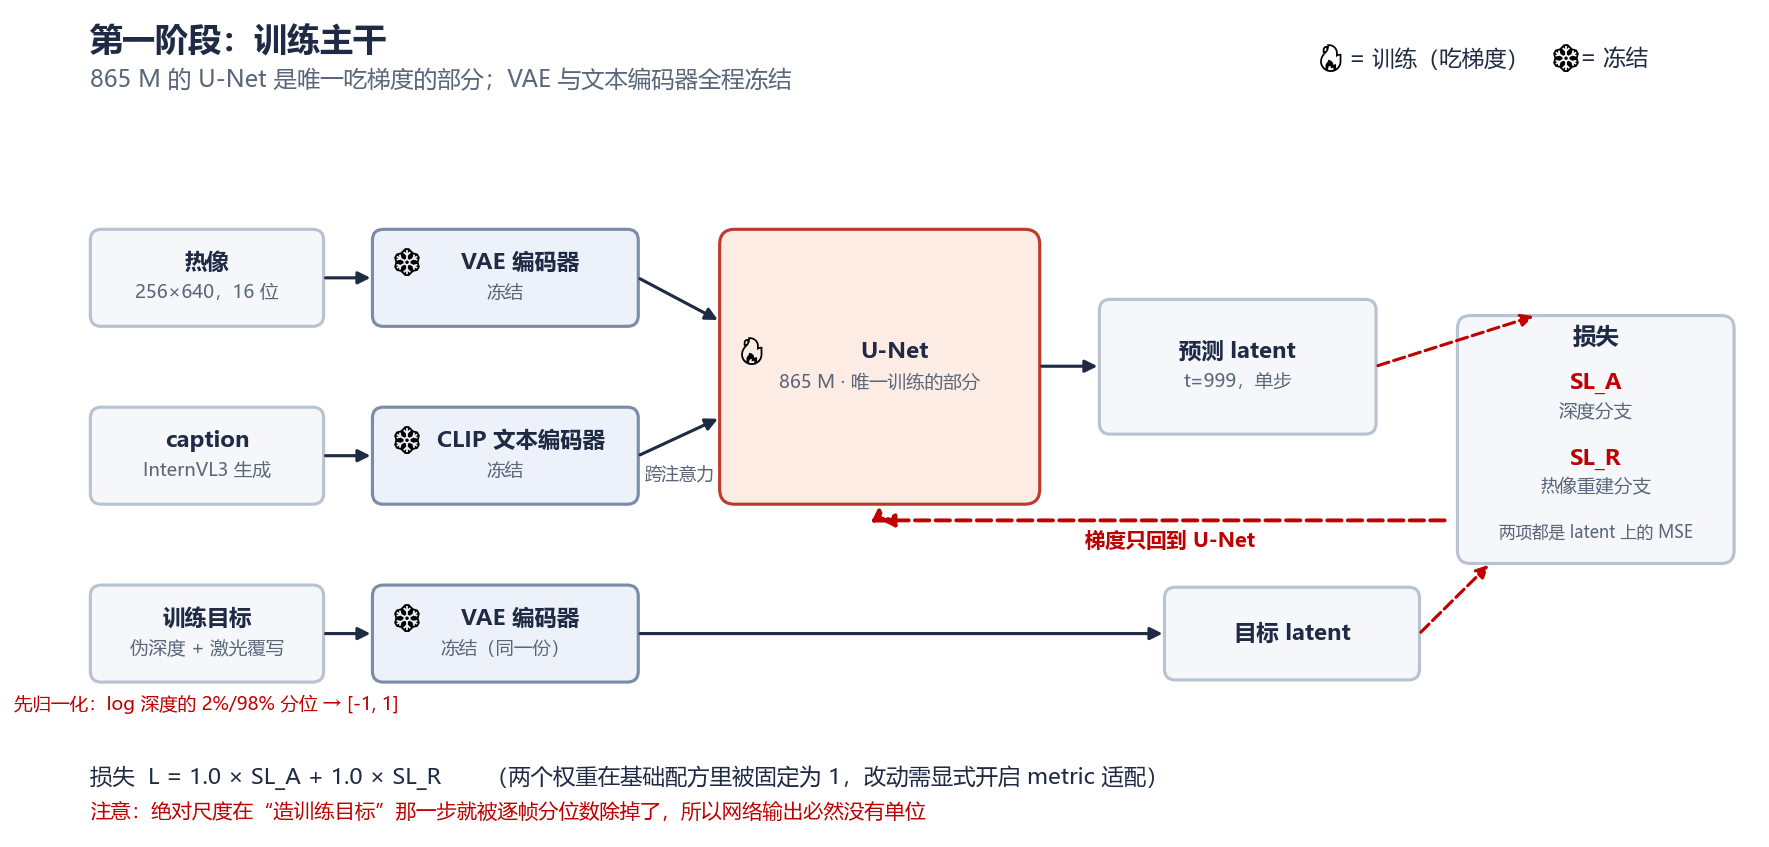
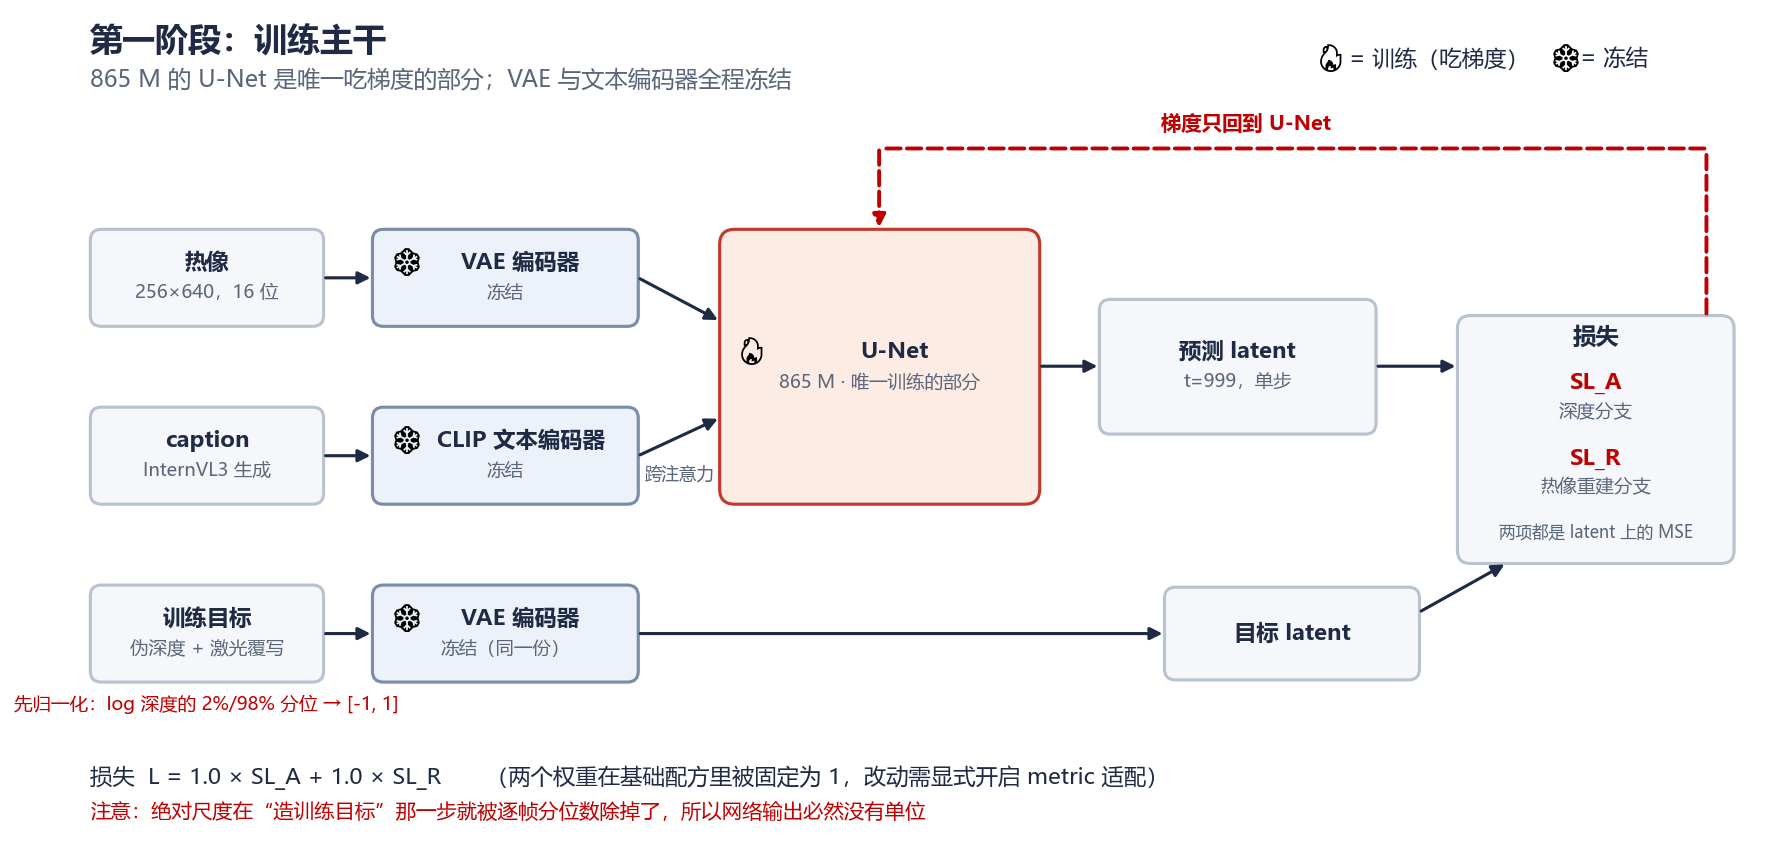
Stop drawing forward tensors in the colour reserved for gradients
Two arrows into the loss were red and dashed, which in this figure means
gradient -- so the picture showed the loss flowing backwards into itself.
They are forward: two tensors arriving where they get compared.

The gradient return ran along the bottom and had to turn up into the U-Net
across a 0.15 gap, so its arrowhead landed under the block with no visible
riser and read as an arrow pointing at nothing. Routed over the top, where
the vertical has room to be seen.

New inference figure, and it says what the output actually is: a VAE decode
in [-1, 1], rescaled to [0, 1]. Under this line that range holds normalised
log depth. It held disparity before the target changed, which is what the
`disparity` variable name still refers to.

The metric-head page comes out of the deck; nothing reported depends on it.
Its figure stays, and putting the page back is one name in build().

diff --git a/tools/build_report_20260921.py b/tools/build_report_20260921.py
@@ -35,7 +35,7 @@ METRICS = ["AbsRel ↓", "RMSE (m) ↓", "δ1 ↑"]
 NUMCOLS = [PP_ALIGN.LEFT] + [PP_ALIGN.CENTER] * 3
 
 
-def new(prs):
+def new_slide(prs):
     return prs.slides.add_slide(prs.slide_layouts[6])
 
 
@@ -72,7 +72,7 @@ def check_paired_rows_differ(rows: list[list[str]]) -> None:
 
 # ── 1. 封面 ────────────────────────────────────────────────────────────────
 def cover(prs):
-    slide = new(prs)
+    slide = new_slide(prs)
     bar = slide.shapes.add_shape(1, Inches(0), Inches(0), Inches(W), Inches(2.55))
     bar.fill.solid(); bar.fill.fore_color.rgb = INK
     bar.line.fill.background(); bar.shadow.inherit = False
@@ -91,7 +91,7 @@ def cover(prs):
 
 # ── 2. 换 log 目标 ─────────────────────────────────────────────────────────
 def objective(prs):
-    slide = new(prs)
+    slide = new_slide(prs)
     header(slide, "训练目标", "把目标从视差空间换到 log 深度空间")
     rows = [
         ["场景 / 训练目标"] + METRICS,
@@ -117,7 +117,7 @@ def objective(prs):
 
 # ── 3. 双种子 ──────────────────────────────────────────────────────────────
 def seeds(prs):
-    slide = new(prs)
+    slide = new_slide(prs)
     header(slide, "复现", "换一个随机种子重训，结论不变")
     rows = [
         ["场景 / 种子"] + METRICS,
@@ -154,7 +154,7 @@ def seeds(prs):
 
 # ── 4. caption 分两层 ──────────────────────────────────────────────────────
 def caption_levels(prs):
-    slide = new(prs)
+    slide = new_slide(prs)
     header(slide, "caption", "同一份权重，只换推理时给的文本")
     rows = [
         ["推理时喂进去的文本"] + METRICS,
@@ -178,7 +178,7 @@ def caption_levels(prs):
 
 # ── 5. 架构：出来的是什么 ──────────────────────────────────────────────────
 def chain(prs):
-    slide = new(prs)
+    slide = new_slide(prs)
     header(slide, "架构", "网络直接出的没有单位，米是后面加上去的")
     # The slide variant: one frame across, not three down. The document figure
     # at full body width stands 6.6 inches tall on a 7.5 inch slide.
@@ -225,7 +225,7 @@ def code(slide, left, top, width, height, lines, *, size=10):
 
 
 def arch_backbone(prs):
-    slide = new(prs)
+    slide = new_slide(prs)
     header(slide, "架构", "只有 U-Net 在训练，其余全部冻结")
     picture = FIGURES / "arch_backbone.png"
     if picture.is_file():
@@ -240,7 +240,7 @@ def arch_backbone(prs):
 
 
 def arch_loss(prs):
-    slide = new(prs)
+    slide = new_slide(prs)
     header(slide, "损失", "两项 latent MSE，权重都是 1")
     write(textbox(slide, MARGIN, 1.52, BODY_W, 0.42), [
         "L = 1.0 × SL_A（深度分支） + 1.0 × SL_R（热像重建分支）",
@@ -266,29 +266,25 @@ def arch_loss(prs):
     conclusion(slide, "损失没变，变的是送进损失的那个目标处在哪个空间")
 
 
-def arch_metric(prs):
-    slide = new(prs)
-    header(slide, "架构（第二阶段）", "把没有单位的输出学成米：仍在实验")
-    picture = FIGURES / "arch_metric_head.png"
+def arch_inference(prs):
+    slide = new_slide(prs)
+    header(slide, "推理", "网络出的是 [-1, 1]，米是评估器逐帧贴上去的")
+    picture = FIGURES / "arch_inference.png"
     if picture.is_file():
-        art_h = 3.98
-        art_w = art_h * 1720 / 653
+        art_h = 4.62
+        art_w = art_h * 1720 / 911
         slide.shapes.add_picture(str(picture),
                                  Inches(MARGIN + (BODY_W - art_w) / 2),
-                                 Inches(1.50), height=Inches(art_h))
-    write(textbox(slide, MARGIN, 5.66, BODY_W, 1.0), [
-        "第一阶段整个冻结，只训一个 0.39 M 的小头，为每个像素出一对 A、B，"
-        "再按 D = exp(A⊙y + B) 换算成米。监督只用真实激光那约 26% 的像素。",
-        ("前面几页报的数字都不依赖这个头 —— 那些是逐帧拟合两个参数得到的（第 5 页）。"
-         "这一条线还没有可以并排比较的结果。",
-         {"colour": GREY, "size": 12}),
-    ], size=13, space_after=7)
-    conclusion(slide, "这一步是让模型自己给出米，而不是每帧现拟合")
+                                 Inches(1.46), height=Inches(art_h))
+    write(textbox(slide, MARGIN, 6.20, BODY_W, 0.40), [
+        "推理时整个网络都冻结，一次前向，没有去噪循环。虚线以下不属于模型。",
+    ], size=12.5, space_after=4)
+    conclusion(slide, "模型不产出米；那两个数每一帧重新解")
 
 
 # ── 6. 训练目标为什么是稠密的 ──────────────────────────────────────────────
 def target(prs):
-    slide = new(prs)
+    slide = new_slide(prs)
     header(slide, "训练目标", "官方 GT 覆盖约四分之一，训练用的那张是补出来的")
     picture = FIGURES / "slide_gt_density.png"
     if picture.is_file():
@@ -307,7 +303,7 @@ def build(path: Path) -> None:
     prs = Presentation()
     prs.slide_width, prs.slide_height = Inches(W), Inches(H)
     for page in (cover, objective, seeds, caption_levels, chain, target,
-                 arch_backbone, arch_loss, arch_metric):
+                 arch_backbone, arch_loss, arch_inference):
         page(prs)
     path.parent.mkdir(parents=True, exist_ok=True)
     prs.save(path)

diff --git a/docs/figures/build_architecture.py b/docs/figures/build_architecture.py
@@ -146,14 +146,21 @@ def backbone():
     ax.text(cx, ly + 0.24, "两项都是 latent 上的 MSE", ha="center", fontsize=8.5,
             color=MUTED)
 
-    arrow(ax, 12.10, 4.33, lx + 0.72, ly + lh, dashed=True, colour=RED)
-    arrow(ax, 12.50, 1.85, lx + 0.30, ly, dashed=True, colour=RED)
+    # Both of these are forward: two tensors arriving at the place they are
+    # compared. Drawn red-dashed they read as gradient, which is the one thing
+    # they are not.
+    arrow(ax, 12.10, 4.33, lx, 4.33)
+    arrow(ax, 12.50, 2.05, lx + 0.45, ly)
 
-    # Gradient path: back along the bottom, up into the U-Net, and nowhere else.
-    arrow(ax, lx - 0.10, 2.90, 7.52, 2.90, colour=RED, dashed=True, width=2.0)
-    ax.text(10.2, 2.66, "梯度只回到 U-Net", ha="center", fontsize=10.5,
+    # Gradient path, routed over the top. Along the bottom it had to turn up
+    # into the U-Net across a 0.15 gap, so the arrowhead landed under the block
+    # with no visible riser and read as an arrow pointing at nothing.
+    grad = dict(colour=RED, dashed=True, width=2.0)
+    arrow(ax, cx + 1.02, ly + lh, cx + 1.02, 6.35, style="-", **grad)
+    arrow(ax, cx + 1.02, 6.35, 7.52, 6.35, style="-", **grad)
+    arrow(ax, 7.52, 6.35, 7.52, 5.60, **grad)
+    ax.text(10.9, 6.52, "梯度只回到 U-Net", ha="center", fontsize=10.5,
             color=RED, weight="bold")
-    arrow(ax, 7.52, 2.90, 7.52, 3.05, colour=RED, dashed=True, width=2.0)
 
     ax.text(0.25, 0.46,
             "损失  L = 1.0 × SL_A + 1.0 × SL_R"
@@ -215,6 +222,88 @@ def metric_head():
     print("写入 arch_metric_head.png")
 
 
+def inference():
+    """One forward pass, and where the metres are bolted on afterwards.
+
+    The recurring question is what the network actually emits. It emits a VAE
+    decode in [-1, 1], rescaled to [0, 1] -- and under this line that range
+    holds normalised *log depth*, not the disparity the old baseline trained
+    on. The variable is still called `disparity` in the code, which is a name
+    left over from the target this report is about replacing.
+
+    The band below the rule is not part of the model. It is what the evaluator
+    does, per frame, and drawing it inside the network would claim the model
+    produces metres.
+    """
+    fig, ax = plt.subplots(figsize=(15.6, 8.2), dpi=140)
+    ax.set_xlim(0, 15.6); ax.set_ylim(0, 8.2); ax.axis("off")
+
+    ax.text(0.25, 7.85, "推理", fontsize=17, weight="bold", color=INK)
+    ax.text(0.25, 7.52,
+            "一次前向，t=999，没有去噪循环；此时整个网络都是冻结的",
+            fontsize=12, color=MUTED)
+
+    if BADGE_FONT:
+        ax.text(13.62, 7.78, "❄", fontsize=13, fontname=BADGE_FONT,
+                va="center")
+        ax.text(13.90, 7.78, "= 推理时全部冻结", fontsize=11.5, color=INK,
+                va="center")
+
+    # Band A: the forward pass.
+    row, h = 5.60, 0.95
+    mid = row + h / 2
+    block(ax, 0.25, row, 1.85, h, "热像", state="data")
+    block(ax, 2.45, row, 2.15, h, "VAE 编码器", state="frozen")
+    block(ax, 4.95, row, 2.35, h, "U-Net", "865 M", state="frozen")
+    block(ax, 7.65, row, 2.00, h, "预测 latent", state="data")
+    block(ax, 10.00, row, 2.15, h, "VAE 解码器", state="frozen")
+    block(ax, 12.50, row, 2.90, h, "网络输出", "[-1, 1]", state="data")
+    for x0, x1 in ((2.10, 2.45), (4.60, 4.95), (7.30, 7.65),
+                   (9.65, 10.00), (12.15, 12.50)):
+        arrow(ax, x0, mid, x1, mid)
+
+    crow = 4.15
+    block(ax, 0.25, crow, 1.85, h, "caption", state="data")
+    block(ax, 2.45, crow, 2.35, h, "CLIP 文本编码器", state="frozen")
+    arrow(ax, 2.10, crow + h / 2, 2.45, crow + h / 2)
+    arrow(ax, 4.80, crow + h / 2, 5.70, row)
+    ax.text(5.42, 4.38, "跨注意力", ha="center", fontsize=9, color=MUTED)
+
+    ax.text(0.25, 3.76,
+            "网络这一路直接出来的是 VAE 解码后的 [-1, 1]，再 /2 + 0.5 换成 "
+            "y ∈ [0, 1]：稠密，没有单位。",
+            fontsize=11.5, color=RED)
+    ax.text(0.25, 3.46,
+            "这个区间里装的是归一化之后的 log 深度 —— 换目标之前那条基线才是视差"
+            "（代码里的变量名 disparity 是旧名字）。",
+            fontsize=11.5, color=RED)
+
+    ax.plot([0.25, 15.35], [3.10, 3.10], color="#C7CEDA", lw=1.3, ls="--")
+    ax.text(0.25, 2.84, "以下不在网络里：这是评估器逐帧做的事",
+            fontsize=13, weight="bold", color=INK)
+
+    # Band B: the two-parameter fit that puts the metres on.
+    block(ax, 0.25, 1.40, 2.45, 0.90, "网络输出 y", "0 到 1，稠密", state="data")
+    block(ax, 0.25, 0.30, 2.45, 0.90, "官方激光 GT", "约 26% 的像素", state="data")
+    block(ax, 4.30, 0.55, 3.40, 1.60, "逐帧最小二乘",
+          "只在有激光的像素上解 a、b", state="data", radius=0.12)
+    arrow(ax, 2.70, 1.85, 4.30, 1.72)
+    arrow(ax, 2.70, 0.75, 4.30, 1.00)
+
+    block(ax, 9.30, 0.90, 2.75, 0.90, "米制深度", state="data")
+    arrow(ax, 7.70, 1.35, 9.30, 1.35)
+    ax.text(10.68, 0.58, r"$D = \exp(a\,y + b)$", ha="center", fontsize=12,
+            color=RED)
+
+    ax.text(12.60, 1.50, "两个数每一帧重新解，", fontsize=11, color=RED)
+    ax.text(12.60, 1.20, "模型本身不产出米。", fontsize=11, color=RED)
+
+    fig.savefig("arch_inference.png", bbox_inches="tight", facecolor="white")
+    plt.close(fig)
+    print("写入 arch_inference.png")
+
+
 if __name__ == "__main__":
     backbone()
+    inference()
     metric_head()
